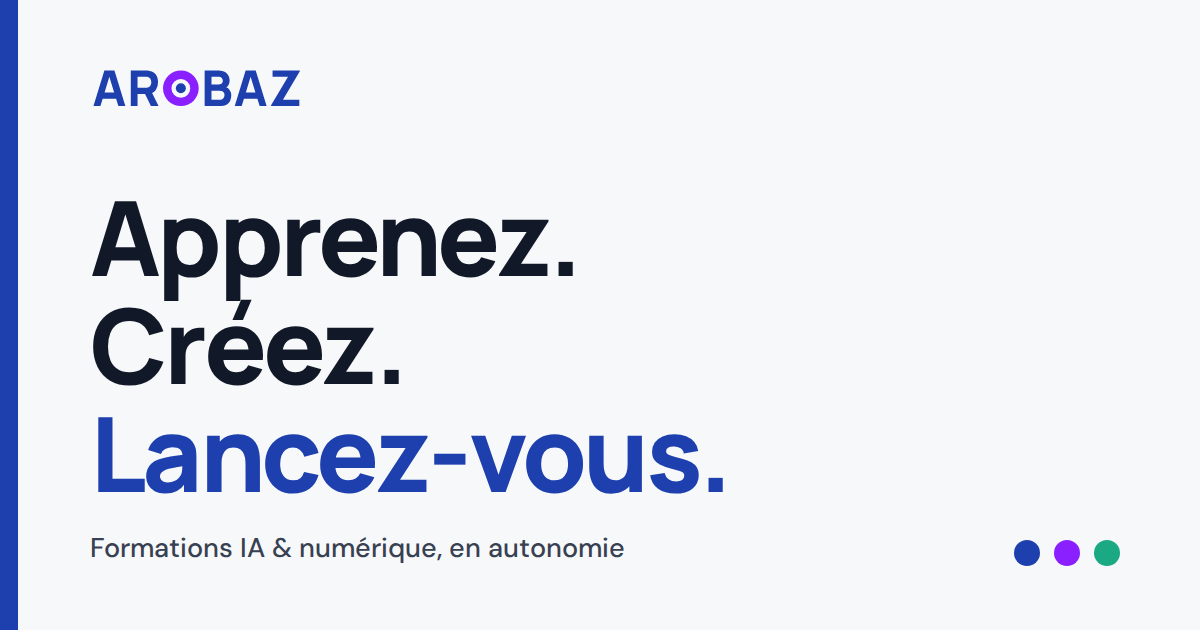
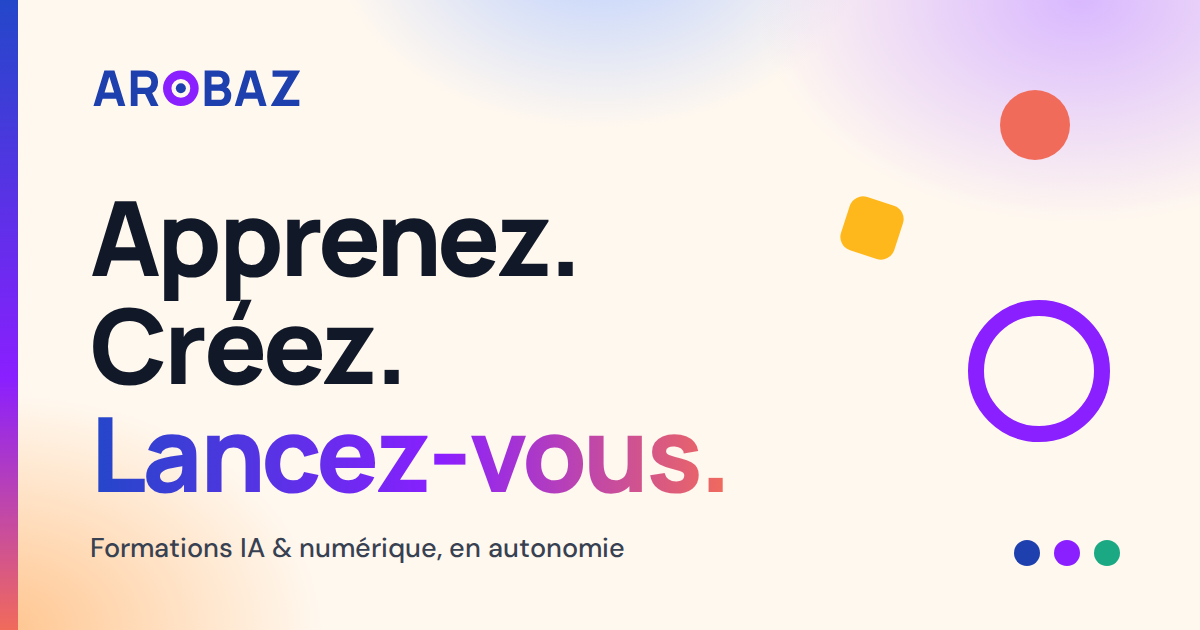
Palette chaleureuse : fond crème, dégradés bleu-violet, couleurs par étape, formes décoratives
Claude-Session: https://claude.ai/code/session_01DyYP7cKaEcXqu9deRV32oM

diff --git a/src/styles/couleur.css b/src/styles/couleur.css
@@ -1,0 +1,118 @@
+/* Palette « chaleureuse » : fond crème, dégradés bleu → violet, accents menthe, corail et ambre.
+   Chargée après global.css et motion.css : elle ne fait que surcharger les couleurs. */
+:root {
+  --bg: #fff8ef;
+  --line: #ecdfcd;
+  --line-2: #dccbb3;
+  --blue: #2347c9;
+  --blue-ink: #1e40af;
+  --blue-soft: #e6ecff;
+  --violet: #8a1fff;
+  --violet-ink: #6a0fd1;
+  --violet-soft: #f0e4ff;
+  --amber: #ffb81c;
+  --amber-ink: #8a5600;
+  --amber-soft: #fff0c7;
+  --grad: linear-gradient(135deg, #2347c9 0%, #8a1fff 100%);
+  --grad-chaud: linear-gradient(120deg, #1e2b7a 0%, #5b1fd1 55%, #b0266f 100%);
+}
+body { background: var(--bg); }
+html .site-header { background: rgb(255 248 239 / 0.9); border-bottom-color: var(--line); }
+html .site-header.scrolled { background: rgb(255 248 239 / 0.97); }
+nav a:not(.btn):hover { background: var(--violet-soft) !important; }
+
+/* Boutons : dégradé bleu → violet */
+.btn-primary { background: var(--grad); background-size: 140% 100%; background-position: 0 0; border-color: transparent; }
+.btn-primary:hover { background: var(--grad); background-size: 140% 100%; background-position: 100% 0; box-shadow: 0 14px 28px -10px rgb(138 31 255 / 0.55); }
+.btn-ghost { border-color: var(--line-2); background: rgb(255 255 255 / 0.6); }
+.btn-ghost:hover { background: var(--ink); }
+.btn-light:hover { background: var(--violet-soft); }
+.tag { background: var(--violet-soft); color: var(--violet-ink); }
+.tag-mint { background: var(--mint-soft); color: var(--mint-ink); }
+.tag-coral { background: var(--coral-soft); color: var(--coral-ink); }
+.eyebrow { color: var(--violet-ink); }
+
+/* Sections « paper » : pastel violet → pêche au lieu du blanc */
+.paper { background: linear-gradient(180deg, #f4ebff 0%, #ffeede 100%); }
+.card { border-color: var(--line); }
+
+/* Accueil : fond en mosaïque de couleurs */
+html .hero { background:
+  radial-gradient(760px 480px at 90% 4%, #d9b8ff 0%, transparent 62%),
+  radial-gradient(680px 500px at -4% 100%, #ffc58f 0%, transparent 62%),
+  radial-gradient(560px 380px at 46% -12%, #b9ceff 0%, transparent 64%) !important; }
+html .hero::before { background: radial-gradient(circle, #9db6ff, transparent 70%); opacity: 0.6; }
+html .hero::after { background: radial-gradient(circle, #ff9fb0, transparent 70%); opacity: 0.45; }
+html .titre-hero .accent { background: linear-gradient(90deg, #2347c9 0%, #8a1fff 55%, #f16b5b 100%) !important; -webkit-background-clip: text !important; background-clip: text !important; color: transparent !important; padding-right: 0.05em !important; }
+
+/* Bandeau défilant : arc-en-ciel doux, mots colorés */
+html .band { background: linear-gradient(90deg, #ffe7b3, #ffd3dc, #e4d3ff, #cfeedf, #ffe7b3) !important; border-color: transparent !important; }
+.grp span:nth-of-type(5n+1) { color: #1e40af; } .grp span:nth-of-type(5n+2) { color: #6a0fd1; }
+.grp span:nth-of-type(5n+3) { color: #a8301e; } .grp span:nth-of-type(5n+4) { color: #0f7a5d; } .grp span:nth-of-type(5n+5) { color: #8a5600; }
+.grp i { color: rgb(17 24 39 / 0.25) !important; }
+
+/* La méthode : chaque étape a sa couleur */
+html .methode > li:nth-child(n) { background: var(--cs) !important; border: 0 !important; border-top: 6px solid var(--c) !important; box-shadow: 0 10px 30px -18px var(--c) !important; }
+html .methode > li:nth-child(n) .num { display: inline-grid !important; place-items: center !important; width: 34px !important; height: 34px !important; border-radius: 50% !important; background: var(--c) !important; color: #fff !important; font-size: 0.82rem !important; }
+html .methode > li:nth-child(5) .num { color: #3d2800 !important; }
+.methode > li:nth-child(1) { --c: #2347c9; --cs: #e6ecff; } .methode > li:nth-child(2) { --c: #8a1fff; --cs: #f0e4ff; } .methode > li:nth-child(3) { --c: #1aa982; --cs: #dff5ec; }
+.methode > li:nth-child(4) { --c: #f16b5b; --cs: #ffe6e1; } .methode > li:nth-child(5) { --c: #ffb81c; --cs: #fff0c7; }
+
+/* Cartes formations / catalogue / « comment ça marche » */
+html .formation { border-top-color: var(--blue) !important; }
+html .formation:nth-child(2) { border-top-color: var(--violet) !important; }
+.cat:nth-child(1) { border-top: 4px solid #1aa982; } .cat:nth-child(2) { border-top: 4px solid #2347c9; } .cat:nth-child(3) { border-top: 4px solid #f16b5b; }
+html .how .n { background: var(--c, var(--blue-soft)) !important; color: #fff !important; }
+.how > div:nth-child(1) { --c: #2347c9; } .how > div:nth-child(2) { --c: #8a1fff; } .how > div:nth-child(3) { --c: #1aa982; } .how > div:nth-child(4) { --c: #f16b5b; }
+.go { color: var(--violet-ink) !important; }
+
+/* Bande de chiffres + appel à l'action : dégradés profonds */
+html .ink-bg { background: var(--grad-chaud) !important; }
+html .stats span { color: #e5dcff !important; }
+html .cta { background: var(--grad) !important; position: relative !important; overflow: hidden !important; }
+html .cta::before { content: ""; position: absolute; width: 360px; height: 360px; right: -80px; top: -140px; border-radius: 50%; background: radial-gradient(circle, rgb(255 184 28 / 0.55), transparent 65%); pointer-events: none; }
+html .cta::after { content: ""; position: absolute; width: 300px; height: 300px; left: 25%; bottom: -170px; border-radius: 50%; background: radial-gradient(circle, rgb(241 107 91 / 0.5), transparent 65%); pointer-events: none; }
+html .cta > * { position: relative; z-index: 1; }
+html .cta p { color: #ece6ff !important; }
+
+/* En-têtes de pages intérieures */
+html .ph { background: linear-gradient(120deg, #e8eeff 0%, #f3e8ff 50%, #ffe9d6 100%) !important; border-bottom-color: var(--line) !important; }
+html .hero:not(.coral):not([class*="hero-"]) { }
+/* Page d'une formation : hero coloré, modules en cinq couleurs */
+.modules > .mod:nth-child(5n+1) { --c: #2347c9; --cs: #e6ecff; } .modules > .mod:nth-child(5n+2) { --c: #8a1fff; --cs: #f0e4ff; }
+.modules > .mod:nth-child(5n+3) { --c: #1aa982; --cs: #e3f6ef; } .modules > .mod:nth-child(5n+4) { --c: #f16b5b; --cs: #fdecea; }
+.modules > .mod:nth-child(5n+5) { --c: #e29a00; --cs: #fff0c7; }
+.modules > .mod { border-top: 5px solid var(--c); }
+.modules > .mod .num { color: var(--c); }
+.modules > .mod:nth-child(5n+4) .num { color: #a8301e; } .modules > .mod:nth-child(5n+5) .num { color: #8a5600; }
+.modules > .mod .tag-mint { background: var(--cs); }
+.comp .n { background: var(--c, var(--blue)) !important; color: #fff !important; }
+.comp:nth-child(1) { --c: #2347c9; } .comp:nth-child(2) { --c: #8a1fff; } .comp:nth-child(3) { --c: #1aa982; } .comp:nth-child(4) { --c: #f16b5b; }
+
+/* Étapes « Comment ça marche » */
+.steps li.actif .n { background: var(--grad); }
+.steps::after { background: linear-gradient(#2347c9, #8a1fff 60%, #f16b5b); }
+
+/* Espace élève */
+html .top { background: linear-gradient(120deg, #e8eeff 0%, #f3e8ff 55%, #ffe9d6 100%) !important; border-bottom: 1px solid var(--line) !important; }
+.bar { background: #efe4d3; }
+.bar > span { background: linear-gradient(90deg, #1aa982, #2347c9 60%, #8a1fff); }
+.mnav { background: #fff; }
+.lc .n { background: var(--violet-soft); color: var(--violet-ink); }
+.mnav a[aria-current="page"] { background: var(--violet-soft); color: var(--violet-ink); }
+.lecons .lc:nth-child(5n+1) .n { background: #e6ecff; color: #1e40af; } .lecons li:nth-child(5n+3) .lc .n { background: #e3f6ef; color: #0f7a5d; }
+.lecons li:nth-child(5n+4) .lc .n { background: #fdecea; color: #a8301e; } .lecons li:nth-child(5n+5) .lc .n { background: #fff0c7; color: #8a5600; }
+.lc.fait .n { background: var(--mint) !important; color: #fff; }
+.lc.final .n { background: var(--grad) !important; }
+
+/* Formes décoratives du hero */
+.hero .deco { position: absolute; z-index: 0; pointer-events: none; animation: flotte 9s ease-in-out infinite; }
+.hero .wrap { z-index: 1; }
+.deco.d1 { width: 74px; height: 74px; border-radius: 50%; background: #f16b5b; left: 4%; top: 14%; opacity: 0.9; }
+.deco.d2 { width: 58px; height: 58px; border-radius: 14px; background: #ffb81c; right: 7%; top: 8%; transform: rotate(18deg); animation-delay: -3s; }
+.deco.d3 { width: 96px; height: 96px; border-radius: 50%; border: 14px solid #8a1fff; right: 3%; bottom: 10%; animation-delay: -5s; opacity: 0.85; }
+.deco.d4 { width: 0; height: 0; border-left: 30px solid transparent; border-right: 30px solid transparent; border-bottom: 52px solid #1aa982; left: 46%; bottom: 7%; animation-delay: -2s; }
+.deco.d5 { width: 38px; height: 38px; border-radius: 50%; background: #2347c9; left: 52%; top: 9%; animation-delay: -6s; }
+@keyframes flotte { 0%, 100% { translate: 0 0; rotate: 0deg; } 50% { translate: 0 -18px; rotate: 12deg; } }
+@media (max-width: 900px) { .deco.d4, .deco.d5 { display: none; } .deco.d1 { width: 46px; height: 46px; } .deco.d3 { width: 64px; height: 64px; border-width: 10px; } }
+@media (prefers-reduced-motion: reduce) { .hero .deco { animation: none; } }

diff --git a/brand/og.html b/brand/og.html
@@ -1,15 +1,16 @@
 <!doctype html><meta charset="utf-8"><style>
 @font-face{font-family:M;src:url(../video/fonts/manrope.woff2);font-weight:200 800}
 @font-face{font-family:D;src:url(../video/fonts/dmsans.woff2);font-weight:100 900}
-body{margin:0;width:1200px;height:630px;background:#F7F8FA;position:relative;overflow:hidden;font-family:D,sans-serif}
-.bar{position:absolute;left:0;top:0;bottom:0;width:18px;background:#1E40AF}
+body{margin:0;width:1200px;height:630px;background:radial-gradient(520px 360px at 90% 0%,#d9b8ff,transparent 62%),radial-gradient(520px 380px at 0% 100%,#ffc58f,transparent 62%),radial-gradient(420px 300px at 50% -10%,#b9ceff,transparent 64%),#FFF8EF;position:relative;overflow:hidden;font-family:D,sans-serif}
+.bar{position:absolute;left:0;top:0;bottom:0;width:18px;background:linear-gradient(#2347c9,#8a1fff 60%,#f16b5b)}
+.s1,.s2,.s3{position:absolute;display:block}.s1{width:70px;height:70px;border-radius:50%;background:#f16b5b;right:130px;top:90px}.s2{width:56px;height:56px;border-radius:14px;background:#ffb81c;right:300px;top:200px;transform:rotate(18deg)}.s3{width:110px;height:110px;border-radius:50%;border:16px solid #8a1fff;right:90px;top:300px}
 .logo{position:absolute;left:90px;top:58px;height:68px}
 h1{position:absolute;left:90px;top:182px;margin:0;font:800 104px/1.04 M;letter-spacing:-.035em;color:#111827}
-h1 span{color:#1E40AF}
+h1 span{background:linear-gradient(90deg,#2347c9,#8a1fff 55%,#f16b5b);-webkit-background-clip:text;background-clip:text;color:transparent}
 p{position:absolute;left:90px;top:530px;margin:0;font:500 27px D;color:#374151}
 .d{position:absolute;right:80px;top:540px;display:flex;gap:14px}.d i{width:26px;height:26px;border-radius:50%;display:block}
 </style>
-<div class="bar"></div><img class="logo" src="final/arobaz-logo-bleu.svg" alt="AROBAZ">
+<div class="bar"></div><i class="s1"></i><i class="s2"></i><i class="s3"></i><img class="logo" src="final/arobaz-logo-bleu.svg" alt="AROBAZ">
 <h1>Apprenez.<br>Créez.<br><span>Lancez-vous.</span></h1>
 <p>Formations IA &amp; numérique, en autonomie</p>
 <div class="d"><i style="background:#1E40AF"></i><i style="background:#8A1FFF"></i><i style="background:#1AA982"></i></div>
